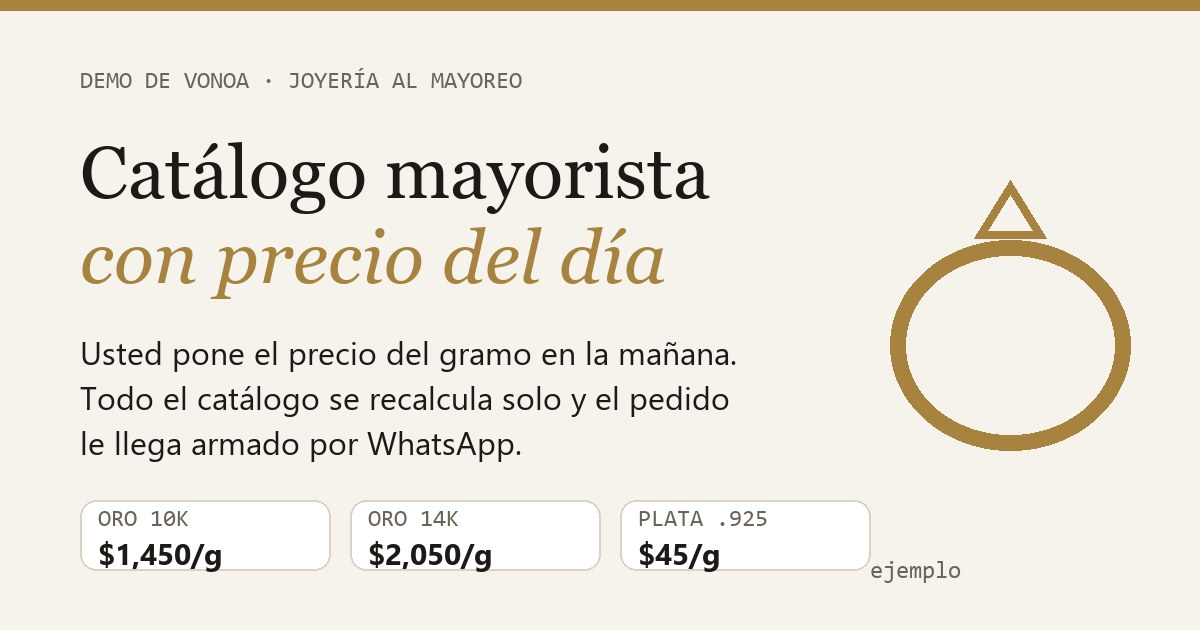
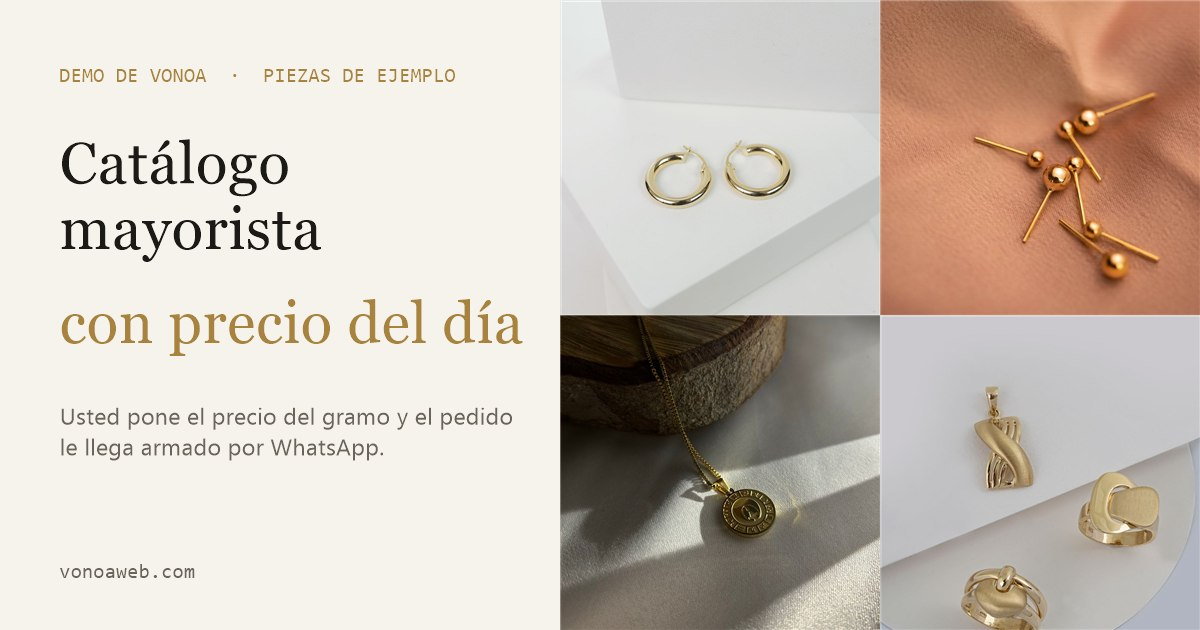
Demo joyería: fotos reales de uso libre (Pexels) en lugar de dibujos
12 fotos cuadradas de 800 px, nombres de pieza ajustados a lo que muestra cada foto,
foto en el certificado, créditos en CREDITOS.md y nueva imagen de vista previa.

diff --git a/piezas.js b/piezas.js
@@ -1,5 +1,6 @@
 /* Piezas y precios DE EJEMPLO para la demo. No son de ninguna joyería real.
-   En la versión real, cada joyero carga su catálogo y captura su precio del gramo. */
+   Las fotos son de uso libre (Pexels); los créditos están en CREDITOS.md.
+   En la versión real, cada joyero carga su catálogo con sus fotos y captura su precio del gramo. */
 window.DEMO = {
   negocio: "Joyería de ejemplo",
   ciudad: "Guadalajara, Jal.",
@@ -12,27 +13,17 @@ window.DEMO = {
     "925": { nombre: "Plata .925", ley: "925 milésimas", tono: "plata" }
   },
   piezas: [
-    { id: "AR-018", nombre: "Arracada lisa 18 mm", metal: "10k", peso: 1.8, forma: "arracada" },
-    { id: "BR-004", nombre: "Broquel bolita 4 mm", metal: "14k", peso: 0.6, forma: "broquel" },
-    { id: "CA-050", nombre: "Cadena cartier 50 cm", metal: "10k", peso: 4.2, forma: "cadena" },
-    { id: "ES-210", nombre: "Esclava tejida", metal: "14k", peso: 6.5, forma: "esclava" },
-    { id: "AN-031", nombre: "Anillo churumbela", metal: "14k", peso: 2.4, forma: "anillo" },
-    { id: "DI-112", nombre: "Dije medalla", metal: "10k", peso: 1.5, forma: "dije" },
-    { id: "CA-145", nombre: "Cadena torzal 45 cm", metal: "925", peso: 6.0, forma: "cadena" },
-    { id: "AR-207", nombre: "Arracada huggie con circonia", metal: "925", peso: 2.2, forma: "arracada" },
-    { id: "AN-090", nombre: "Anillo sello", metal: "10k", peso: 5.1, forma: "anillo" },
-    { id: "BR-033", nombre: "Broquel corazón", metal: "10k", peso: 0.9, forma: "broquel" },
-    { id: "PU-084", nombre: "Pulsera rolo", metal: "925", peso: 8.4, forma: "esclava" },
-    { id: "DI-330", nombre: "Juego dije y cadena", metal: "14k", peso: 3.3, forma: "dije" }
+    { id: "AR-018", nombre: "Arracada lisa 18 mm",        metal: "10k", peso: 1.8 },
+    { id: "BR-004", nombre: "Broquel bolita 4 mm",        metal: "14k", peso: 0.6 },
+    { id: "CA-050", nombre: "Cadena de eslabón 50 cm",    metal: "10k", peso: 4.2 },
+    { id: "ES-210", nombre: "Brazalete abierto",          metal: "14k", peso: 6.5 },
+    { id: "AN-031", nombre: "Argolla lisa",               metal: "14k", peso: 2.4 },
+    { id: "DI-112", nombre: "Dije medalla con cadena",    metal: "10k", peso: 1.5 },
+    { id: "CA-145", nombre: "Cadena barbada 45 cm",       metal: "925", peso: 6.0 },
+    { id: "AR-207", nombre: "Arracada con dije de estrella", metal: "925", peso: 2.2 },
+    { id: "AN-090", nombre: "Anillo sello",               metal: "10k", peso: 5.1 },
+    { id: "BR-033", nombre: "Broquel corazón",            metal: "10k", peso: 0.9 },
+    { id: "PU-084", nombre: "Cadena fina con broche",     metal: "925", peso: 8.4 },
+    { id: "DI-330", nombre: "Medallón esmaltado",         metal: "14k", peso: 3.3 }
   ]
-};
-
-/* Dibujos de línea de cada tipo de pieza (sin fotos: es una demo). */
-window.FORMAS = {
-  arracada: '<circle cx="60" cy="62" r="30" fill="none" stroke-width="5"/><path d="M60 18v14" stroke-width="3"/>',
-  broquel: '<circle cx="44" cy="60" r="11" stroke-width="4" fill="none"/><circle cx="78" cy="60" r="11" stroke-width="4" fill="none"/><circle cx="44" cy="60" r="3"/><circle cx="78" cy="60" r="3"/>',
-  cadena: '<path d="M14 30c10 40 82 40 92 0" fill="none" stroke-width="3" stroke-dasharray="7 4"/><ellipse cx="60" cy="74" rx="6" ry="9" fill="none" stroke-width="3"/>',
-  esclava: '<ellipse cx="60" cy="60" rx="40" ry="26" fill="none" stroke-width="7"/><ellipse cx="60" cy="60" rx="40" ry="26" fill="none" stroke-width="1.5" stroke-dasharray="3 5"/>',
-  anillo: '<ellipse cx="60" cy="70" rx="28" ry="22" fill="none" stroke-width="6"/><path d="M48 46l12-14 12 14z" stroke-width="3" fill="none"/>',
-  dije: '<path d="M60 16v16" stroke-width="3"/><circle cx="60" cy="62" r="24" fill="none" stroke-width="4"/><circle cx="60" cy="62" r="15" fill="none" stroke-width="1.5"/><circle cx="60" cy="34" r="4" fill="none" stroke-width="3"/>'
 };

diff --git a/estilo.css b/estilo.css
@@ -54,7 +54,8 @@ h1{font-family:var(--display);font-weight:400;font-size:clamp(2.2rem,7vw,3.6rem)
 @media (min-width:1000px){.grid{grid-template-columns:repeat(4,minmax(0,1fr))}}
 .pieza{background:#fff;border:1px solid var(--linea);border-radius:16px;overflow:hidden;display:flex;flex-direction:column}
 .pieza .foto{aspect-ratio:1;display:grid;place-items:center;background:radial-gradient(circle at 50% 40%,#fff 0,var(--papel-2) 75%)}
-.pieza svg{width:58%;height:auto}
+.pieza .foto{background:var(--papel-2)}
+.pieza .foto img{display:block;width:100%;height:100%;object-fit:cover}
 .pieza svg.oro{stroke:var(--oro);fill:var(--oro)}
 .pieza svg.plata{stroke:var(--plata);fill:var(--plata)}
 .pieza .info{padding:12px;display:flex;flex-direction:column;gap:6px;flex:1}
@@ -99,10 +100,11 @@ dialog{border:0;border-radius:20px;padding:0;max-width:420px;width:calc(100% - 3
 dialog::backdrop{background:rgba(28,26,23,.55)}
 .cert{padding:24px;position:relative}
 .cert h2{font-family:var(--display);font-weight:400;font-size:1.8rem;line-height:1.05;margin:.2em 0 .6em}
+.cert-foto{display:block;width:100%;aspect-ratio:16/10;object-fit:cover;border-radius:12px;margin:0 0 14px;background:var(--papel-2)}
 .cert dl{display:grid;grid-template-columns:auto 1fr;gap:6px 14px;margin:0 0 18px;font-size:.92rem}
 .cert dt{color:var(--gris)}
 .cert dd{margin:0;font-family:var(--mono);font-size:.86rem}
-.cerrar{position:absolute;top:10px;right:12px;border:0;background:none;font-size:1.6rem;line-height:1;color:var(--gris)}
+.cerrar{position:absolute;top:12px;right:14px;z-index:2;border:0;background:rgba(255,255,255,.92);width:34px;height:34px;border-radius:50%;font-size:1.4rem;line-height:1;color:var(--tinta)}
 .qr-zona{display:flex;gap:14px;align-items:center;border-top:1px solid var(--linea);padding-top:16px;margin-bottom:16px}
 #qr{flex:none;width:112px;height:112px}
 #qr img,#qr canvas{width:112px!important;height:112px!important}

diff --git a/app.js b/app.js
@@ -1,5 +1,5 @@
 (function () {
-  const D = window.DEMO, F = window.FORMAS;
+  const D = window.DEMO;
   const $ = (s) => document.querySelector(s);
   const mxn = (n) => n.toLocaleString("es-MX", { style: "currency", currency: "MXN", maximumFractionDigits: 0 });
   const fechaHoy = () => new Date().toLocaleDateString("es-MX", { day: "numeric", month: "long" });
@@ -29,10 +29,9 @@
   function pintarGrid() {
     const lista = D.piezas.filter((p) => filtro === "todos" || p.metal === filtro);
     $("#grid").innerHTML = lista.map((p) => {
-      const tono = D.metales[p.metal].tono;
       const c = pedido[p.id] || 0;
       return `<li class="pieza${c ? " en-pedido" : ""}" data-id="${p.id}">
-        <div class="foto"><svg viewBox="0 0 120 120" class="${tono}" aria-hidden="true">${F[p.forma]}</svg></div>
+        <div class="foto"><img src="fotos/${p.id}.jpg" alt="${p.nombre}, ${D.metales[p.metal].nombre} (foto de ejemplo)" width="400" height="400" loading="lazy" decoding="async"></div>
         <div class="info">
           <h3>${p.nombre}</h3>
           <div class="meta">${D.metales[p.metal].nombre} · ${p.peso.toFixed(1)} g · ${p.id}</div>
@@ -83,6 +82,8 @@
   function abrirCert(p) {
     const m = D.metales[p.metal];
     $("#cert-titulo").textContent = p.nombre;
+    $("#cert-foto").src = "fotos/" + p.id + ".jpg";
+    $("#cert-foto").alt = p.nombre + " (foto de ejemplo)";
     $("#cert-datos").innerHTML = `
       <dt>Folio</dt><dd>VN-${p.id}</dd>
       <dt>Metal</dt><dd>${m.nombre}</dd>

diff --git a/index.html b/index.html
@@ -21,7 +21,7 @@
 </head>
 <body>
 
-<div class="aviso">Demo de <b>Vonoa</b> · piezas y precios de ejemplo</div>
+<div class="aviso">Demo de <b>Vonoa</b> · piezas, fotos y precios de ejemplo</div>
 
 <header class="top">
   <div class="wrap top-in">
@@ -110,6 +110,7 @@
 <dialog id="cert" aria-labelledby="cert-titulo">
   <form method="dialog" class="cert">
     <button class="cerrar" value="x" aria-label="Cerrar">×</button>
+    <img class="cert-foto" id="cert-foto" alt="" width="420" height="262">
     <p class="spec">Certificado de pieza</p>
     <h2 id="cert-titulo"></h2>
     <dl id="cert-datos"></dl>
@@ -125,6 +126,7 @@
   <div class="wrap">
     <p><b>Hecho por Vonoa</b> · páginas web y herramientas para negocios en Guadalajara</p>
     <p class="spec">hola@vonoaweb.com · WhatsApp 56 4464 5574</p>
+    <p class="spec">Fotos de ejemplo de uso libre, de <a href="https://www.pexels.com" rel="noopener">Pexels</a> (créditos en el repositorio). En la versión real van las suyas.</p>
   </div>
 </footer>
 

diff --git a/c.html b/c.html
@@ -40,6 +40,7 @@
     if (!p) { h.insertAdjacentHTML("beforeend", "<h1>Folio no encontrado</h1><p>Revise el código que escaneó.</p>"); return; }
     const m = D.metales[p.metal];
     h.insertAdjacentHTML("beforeend", `
+      <img class="cert-foto" src="fotos/${p.id}.jpg" alt="${p.nombre} (foto de ejemplo)" width="420" height="262">
       <div class="sello"><svg viewBox="0 0 24 24" aria-hidden="true"><path d="M9 16.2 4.8 12l-1.4 1.4L9 19 21 7l-1.4-1.4z"/></svg>Pieza registrada por el taller</div>
       <h1>${p.nombre}</h1>
       <dl>

diff --git a/CREDITOS.md b/CREDITOS.md
@@ -1,0 +1,22 @@
+# Créditos de las fotos
+
+Las fotos del demo son de **uso libre** de [Pexels](https://www.pexels.com/license/) (licencia Pexels: uso gratuito, personal y
+comercial, sin atribución obligatoria). Se recortaron a formato cuadrado y se comprimieron. Son solo imágenes de ejemplo: en la
+versión real del catálogo van las fotos de la joyería.
+
+| Pieza del demo | Foto en Pexels |
+|---|---|
+| AR-018 Arracada lisa | https://www.pexels.com/photo/12194348/ |
+| BR-004 Broquel bolita | https://www.pexels.com/photo/17368722/ |
+| CA-050 Cadena de eslabón | https://www.pexels.com/photo/12155925/ |
+| ES-210 Brazalete abierto | https://www.pexels.com/photo/38827915/ |
+| AN-031 Argolla lisa | https://www.pexels.com/photo/30206324/ |
+| DI-112 Dije medalla con cadena | https://www.pexels.com/photo/29736434/ |
+| CA-145 Cadena barbada | https://www.pexels.com/photo/16124724/ |
+| AR-207 Arracada con dije de estrella | https://www.pexels.com/photo/34372589/ |
+| AN-090 Anillo sello | https://www.pexels.com/photo/35933227/ |
+| BR-033 Broquel corazón | https://www.pexels.com/photo/29193422/ |
+| PU-084 Cadena fina con broche | https://www.pexels.com/photo/16109307/ |
+| DI-330 Medallón esmaltado | https://www.pexels.com/photo/38492235/ |
+
+Los nombres de las piezas se ajustaron a lo que muestra cada foto. Ninguna de las piezas es de una joyería real.
